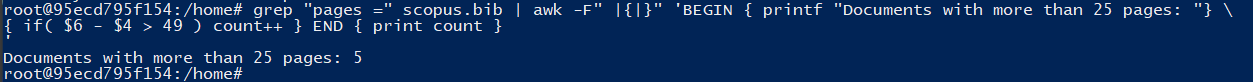
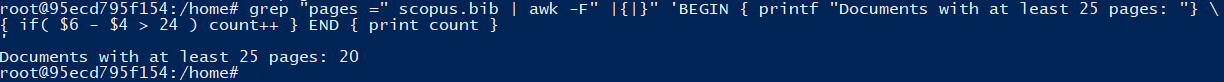
Updates

Changed region(s): [[0.0, 0.0, 1.0, 0.4878], [0.0, 0.6098, 0.3105, 0.8049], [0.0, 0.8049, 0.2173, 0.9756]]

diff --git a/grep.md b/grep.md
@@ -36,8 +36,8 @@ I then used AWK to filter out the range of page numbers the document was printed
 
 ```
 grep "pages =" scopus.bib | \
-awk -F" |{|}" 'BEGIN { printf "Documents with more than 25 pages: "} \
-{ if( $6 - $4 > 25 ) count++ } END { print count }
+awk -F" |{|}" 'BEGIN { printf "Documents with at least 25 pages: "} \
+{ if( $6 - $4 > 24 ) count++ } END { print count }
 ```
 
-![CMD Pages](/img/image-5.png)
+![Alt text](/img/image-5.png)
